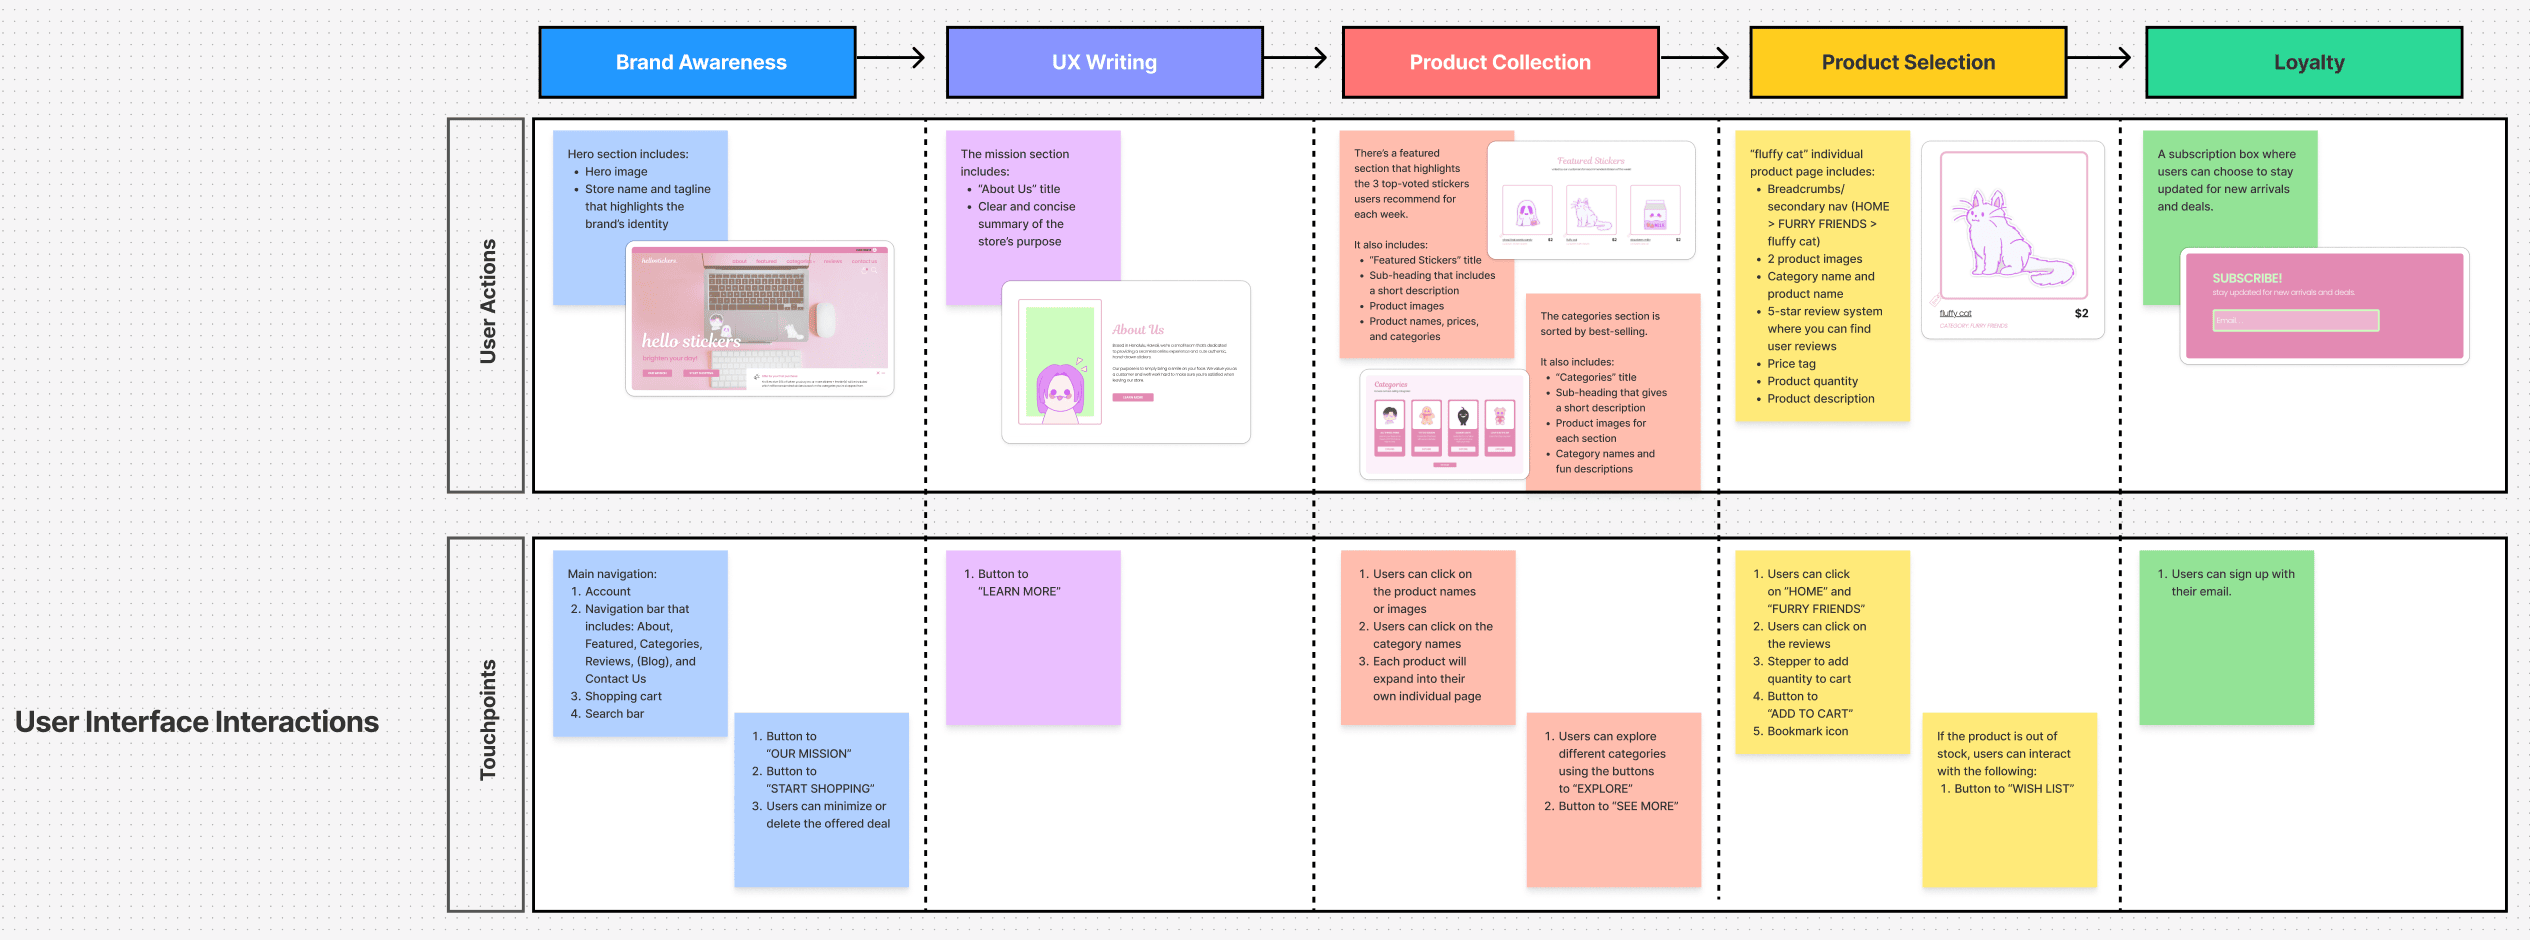
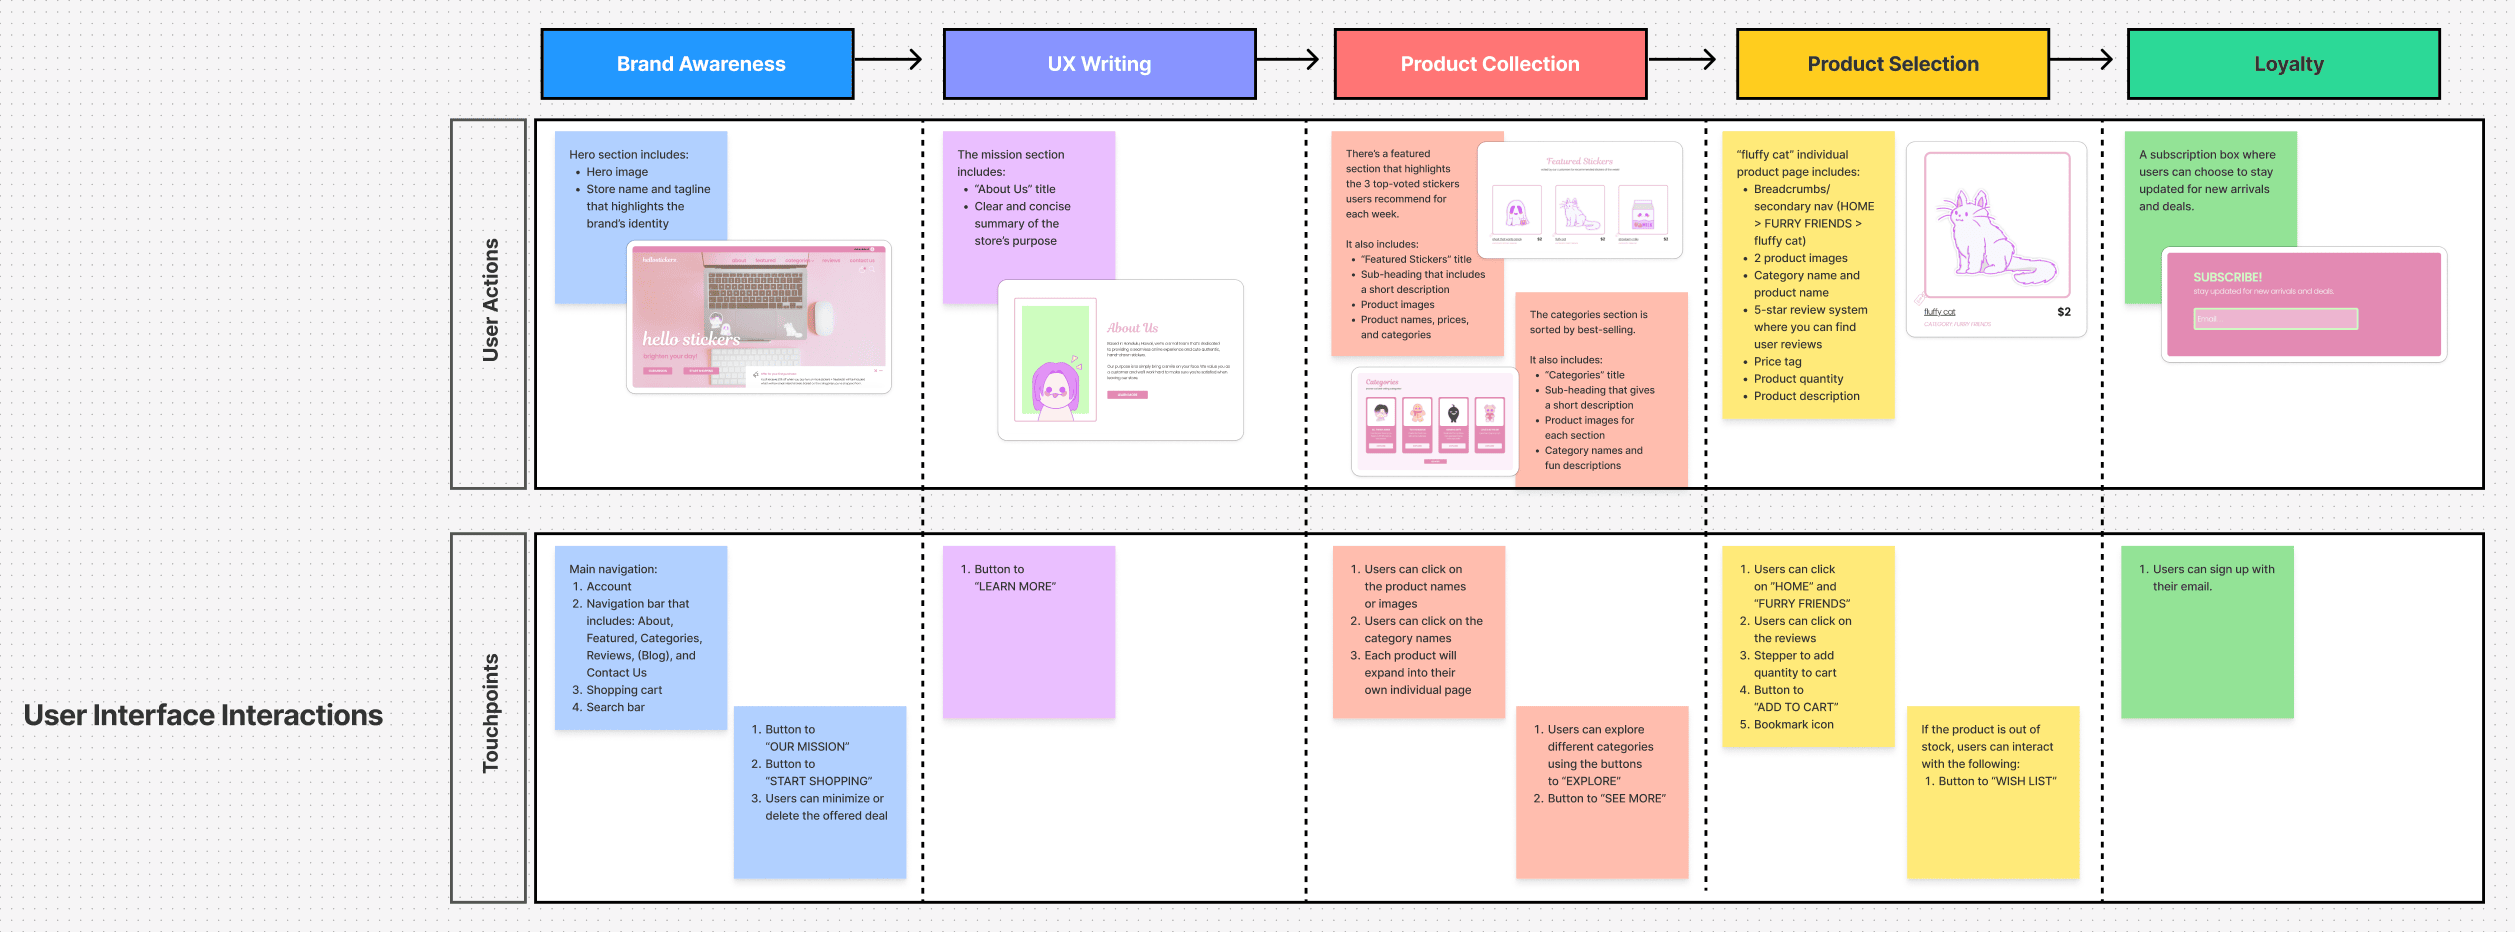
updated stickers pg

diff --git a/hellostickers/index.html b/hellostickers/index.html
@@ -181,7 +181,7 @@
 
                 <div class="column">
 
-                    <img src="../hellostickers/img/userinteraction.png" width="2530" height="940" alt="user journey map, user interaction, of the website" />
+                    <img src="../hellostickers/img/userinteraction.png" width="2515" height="932" alt="user journey map, user interaction, of the website" />
 
                 </div>
 
